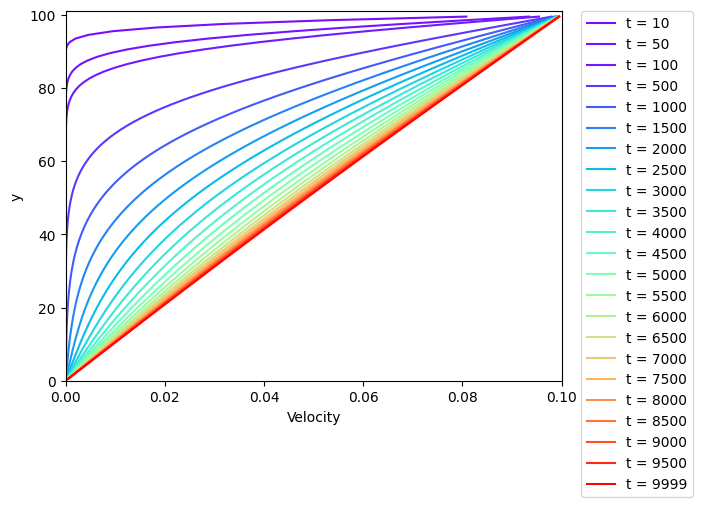
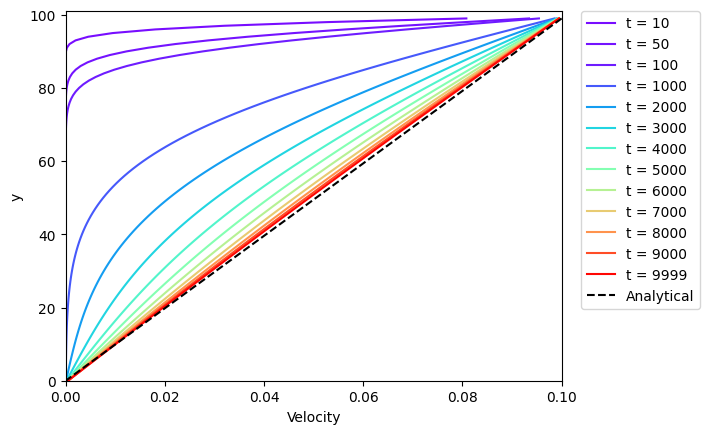
plotting changed and added

diff --git a/Milestone4_CouetteFlow.py b/Milestone4_CouetteFlow.py
@@ -35,7 +35,7 @@ def couette_flow(grid_size_x : int, grid_size_y : int, omega : float, timesteps 
     lbm = LBM(grid_size_x, grid_size_y, omega, inital_velocity_field_Cyx=initial_velocity_field_Cyx, boundary_conditions=boundary_conditions, boundary_velocities=boundary_velocities)
 
     # simulate Couette flow
-    simulated_velocity_field_tCyx = [lbm.get_velocity_field_Cyx()]
+    simulated_velocity_field_tCyx = [lbm.get_velocity_field_Cyx(False)]
     indices = [0]
     print("Simulating Couette flow...")
 
@@ -49,78 +49,110 @@ def couette_flow(grid_size_x : int, grid_size_y : int, omega : float, timesteps 
             print("Timestep " + str(i) + " of " + str(timesteps))
         
             lbm.update_velocity_field()
-            simulated_velocity_field_tCyx.append(lbm.get_velocity_field_Cyx())
+            simulated_velocity_field_tCyx.append(lbm.get_velocity_field_Cyx(False))
             indices.append(i)
 
 
     print("Plotting results...")
-    fig_velocity_over_time = plt.figure()
-    ax1 = fig_velocity_over_time.add_subplot(111)
-    # ax1.set_title("Velocity field over time")
-    ax1.set_xlabel("x")
-    ax1.set_ylabel("y")
-    ax1.set_aspect("equal")
-    ax1.set_xlim(-10, lbm.width+10)
-    ax1.set_ylim(-10, lbm.height+10)
-    x = np.arange(lbm.width)
-    y = np.arange(lbm.height)
+    # fig_velocity_over_time = plt.figure()
+    # ax1 = fig_velocity_over_time.add_subplot(111)
+    # # ax1.set_title("Velocity field over time")
+    # ax1.set_xlabel("x")
+    # ax1.set_ylabel("y")
+    # ax1.set_aspect("equal")
+    # ax1.set_xlim(-10, lbm.width+10)
+    # ax1.set_ylim(-10, lbm.height+10)
+    # x = np.arange(lbm.width)
+    # y = np.arange(lbm.height)
 
-    # max_velocity = np.max(np.array(simulated_velocity_field_tCyx)[:, 0, :, :])
+    # # max_velocity = np.max(np.array(simulated_velocity_field_tCyx)[:, 0, :, :])
 
-    # plot strength of velocity field
-    for i, simulated_velocity_field_Cyx in zip(indices, simulated_velocity_field_tCyx):
+    # # plot strength of velocity field
+    # for i, simulated_velocity_field_Cyx in zip(indices, simulated_velocity_field_tCyx):
         
-        # continue   
-        ax1.set_xlabel("x")
-        ax1.set_ylabel("y")
-        ax1.set_aspect("equal")
-        ax1.set_xlim(-10, lbm.width+10)
-        ax1.set_ylim(-10, lbm.height+10)
+    #     # continue   
+    #     ax1.set_xlabel("x")
+    #     ax1.set_ylabel("y")
+    #     ax1.set_aspect("equal")
+    #     ax1.set_xlim(-10, lbm.width+10)
+    #     ax1.set_ylim(-10, lbm.height+10)
 
-        # draw the boundaries
-        ax1.plot([-0.5, grid_size_x-0.5], [grid_size_y-0.5, grid_size_y-0.5], color="red", label="Moving", linewidth=1)
-        ax1.plot([-0.5, grid_size_x-0.5], [-0.5, -0.5], color="black", label = "Fixed", linewidth=1)
-        # draw vertical boundaries
-        ax1.plot([-0.5, -0.5], [-0.5, grid_size_y-0.5], color="black", linestyle="dashed", label="Periodic", linewidth=1)
-        ax1.plot([grid_size_x-0.5, grid_size_x-0.5], [-0.5, grid_size_y-0.5], color="black", linestyle="dashed", linewidth=1)
-        # ax1.set_title("Velocity field over time, t = " + str(i))
-        velocity_magnitude_field_yx = np.sqrt(simulated_velocity_field_Cyx[0]**2 + simulated_velocity_field_Cyx[1]**2)
-        mappable = ax1.imshow(np.flip(velocity_magnitude_field_yx, axis=0), cmap="plasma", origin="lower")
+    #     # draw the boundaries
+    #     ax1.plot([-0.5, grid_size_x-0.5], [grid_size_y-0.5, grid_size_y-0.5], color="red", label="Moving", linewidth=1)
+    #     ax1.plot([-0.5, grid_size_x-0.5], [-0.5, -0.5], color="black", label = "Fixed", linewidth=1)
+    #     # draw vertical boundaries
+    #     ax1.plot([-0.5, -0.5], [-0.5, grid_size_y-0.5], color="black", linestyle="dashed", label="Periodic", linewidth=1)
+    #     ax1.plot([grid_size_x-0.5, grid_size_x-0.5], [-0.5, grid_size_y-0.5], color="black", linestyle="dashed", linewidth=1)
+    #     # ax1.set_title("Velocity field over time, t = " + str(i))
+    #     velocity_magnitude_field_yx = np.sqrt(simulated_velocity_field_Cyx[0]**2 + simulated_velocity_field_Cyx[1]**2)[1:-1, 1:-1]
+    #     mappable = ax1.imshow(np.flip(velocity_magnitude_field_yx, axis=0), cmap="plasma", origin="lower")
 
-        cbar = fig_velocity_over_time.colorbar(mappable, ax=ax1)
-        cbar.set_ticks([0, top_boundary_velocity])
-        cbar.solids.set_edgecolor("face")
-        cbar.minorticks_on()
-        cbar.set_label("Velocity strength")
+    #     cbar = fig_velocity_over_time.colorbar(mappable, ax=ax1)
+    #     cbar.set_ticks([0, top_boundary_velocity])
+    #     cbar.solids.set_edgecolor("face")
+    #     cbar.minorticks_on()
+    #     cbar.set_label("Velocity strength")
 
-        ax1.legend(bbox_to_anchor=(0, 1.02, 1, 0.2), loc="lower left",
-            mode="expand", borderaxespad=0, ncol=3, labelspacing = 1)
-        plt.tight_layout()
-        if i in safe_timesteps:
-            plt.savefig("CouetteFlowResults/CouetteFlow_VelocityField_t{}_y{}_x{}_omega{}.png".format(i, grid_size_y, grid_size_x, omega), bbox_inches='tight')
-        plt.pause(0.001)
-        cbar.remove()
-        ax1.clear()
+    #     ax1.legend(bbox_to_anchor=(0, 1.02, 1, 0.2), loc="lower left",
+    #         mode="expand", borderaxespad=0, ncol=3, labelspacing = 1)
+    #     plt.tight_layout()
+    #     if i in safe_timesteps:
+    #         plt.savefig("CouetteFlowResults/CouetteFlow_VelocityField_t{}_y{}_x{}_omega{}.png".format(i, grid_size_y, grid_size_x, omega), bbox_inches='tight')
+    #     plt.pause(0.001)
+    #     cbar.remove()
+    #     ax1.clear()
         
             
-    # plot the velocity profile at L_x / 2 over time
-    # expectation is a linear profile for t-->infinitiy
-    lx2 = int(lbm.width/2)
-    fig_velocity_profile_Lx2 = plt.figure()
-    ax_vel_profile_Lx2 = fig_velocity_profile_Lx2.add_subplot(111)
-    ax_vel_profile_Lx2.set_xlabel("Velocity")
-    ax_vel_profile_Lx2.set_ylabel("y")
-    ax_vel_profile_Lx2.set_ylim(0, lbm.height-1)
-    ax_vel_profile_Lx2.set_xlim(0, top_boundary_velocity)
-    # ax_vel_profile_Lx2.set_aspect("equal")
-    y = np.arange(grid_size_y - 1, -1, -1) + 0.5
-    colors = matplotlib.cm.rainbow(np.linspace(0, 1, len(indices) + 1))
-    for step, (i, simulated_velocity_field_Cyx) in enumerate(zip(indices, simulated_velocity_field_tCyx)):
-        if (i % 500 == 0 and i > 0) or i == indices[-1] or i in [10, 50, 100]:
-            ax_vel_profile_Lx2.plot(np.array(simulated_velocity_field_Cyx)[0, :, lx2], y, label="t = " + str(i), color=colors[step])
+    # # plot the velocity profile at L_x / 2 over time
+    # # expectation is a linear profile for t-->infinitiy
+    # lx2 = int(lbm.width/2)
+    # fig_velocity_profile_Lx2 = plt.figure()
+    # ax_vel_profile_Lx2 = fig_velocity_profile_Lx2.add_subplot(111)
+    # ax_vel_profile_Lx2.set_xlabel("Velocity")
+    # ax_vel_profile_Lx2.set_ylabel("y")
+    # ax_vel_profile_Lx2.set_ylim(0, lbm.height-1)
+    # ax_vel_profile_Lx2.set_xlim(0, top_boundary_velocity)
 
-    ax_vel_profile_Lx2.legend(bbox_to_anchor=(1.04, 1), borderaxespad=0)
-    plt.savefig("CouetteFlowResults/CouetteFlow_VelocityProfile_Lx2_over_timesteps_t{}_y{}_x{}_omega{}.png".format(timesteps, grid_size_y, grid_size_x, omega), bbox_inches='tight')
+    # y = np.arange(grid_size_y - 1, -1, -1)
+    # colors = matplotlib.cm.rainbow(np.linspace(0, 1, len(indices) + 1))
+    # for step, (i, simulated_velocity_field_Cyx) in enumerate(zip(indices, simulated_velocity_field_tCyx)):
+    #     if (i % 1000 == 0 and i > 0) or i == indices[-1] or i in [10, 50, 100]:
+    #         ax_vel_profile_Lx2.plot(np.array(simulated_velocity_field_Cyx)[0, 1:-1, lx2], y, label="t = " + str(i), color=colors[step])
+
+    # analytically_expected_velocity_profile = np.arange(grid_size_y - 1, -1, -1) * (top_boundary_velocity / (grid_size_y-1))
+    # ax_vel_profile_Lx2.plot(analytically_expected_velocity_profile, y, label="Analytical", color="black", linestyle="dashed")
+    # ax_vel_profile_Lx2.legend(bbox_to_anchor=(1.04, 1), borderaxespad=0)
+    # plt.savefig("CouetteFlowResults/CouetteFlow_VelocityProfile_Lx2_over_timesteps_t{}_y{}_x{}_omega{}.png".format(timesteps, grid_size_y, grid_size_x, omega), bbox_inches='tight')
+    # plt.tight_layout()
+
+    # plot velocity vectors for steady state velocity field
+    steady_state_velocity_field_Cyx = simulated_velocity_field_tCyx[-1]
+    fig_velocity_vectors = plt.figure()
+    ax_velocity_vectors = fig_velocity_vectors.add_subplot(111)
+    ax_velocity_vectors.set_xlabel("x")
+    ax_velocity_vectors.set_ylabel("y")
+    ax_velocity_vectors.set_aspect("equal")
+    ax_velocity_vectors.set_xlim(-10, lbm.width+10)
+    ax_velocity_vectors.set_ylim(-10, lbm.height+10)
+    ax_velocity_vectors.set_title("Velocity vectors for steady state velocity field")
+
+    steady_state_velocity_field_Cyx = np.flip(steady_state_velocity_field_Cyx, axis=1)
+    u_x = steady_state_velocity_field_Cyx[0][1:-1, 1:-1]
+    u_y = steady_state_velocity_field_Cyx[1][1:-1, 1:-1]
+    ax_velocity_vectors.streamplot(np.arange(1, lbm.width-1), np.arange(1, lbm.height-1), u_x, u_y, color=np.sqrt(u_x**2 + u_y**2), density=1.2, norm=plt.Normalize(0, top_boundary_velocity))
+    ax_velocity_vectors.plot([-0.5, lbm.width - 0.5], [lbm.height-1.5, lbm.height-1.5], color="red", label="Moving wall")
+    ax_velocity_vectors.plot([-0.5, lbm.width - 0.5], [0.5, 0.5], color="black", label = "Fixed wall")
+    # draw vertical boundaries
+    ax_velocity_vectors.plot([-0.5, -0.5], [0.5, lbm.height- 1.5], color="black", label="Periodic", linestyle="dashed")
+    ax_velocity_vectors.plot([lbm.width-0.5, lbm.width-0.5], [0.5, lbm.height - 1.5], color="black", linestyle="dashed")
+    # cbar
+    cbar = fig_velocity_vectors.colorbar(ax=ax_velocity_vectors, mappable=matplotlib.cm.ScalarMappable(norm=plt.Normalize(0, top_boundary_velocity), cmap="viridis"))
+    cbar.set_label("Velocity strength")
+    # ax_velocity_vectors.quiver(np.arange(lbm.width), np.arange(lbm.height), steady_state_velocity_field_Cyx[0], steady_state_velocity_field_Cyx[1])
+    ax_velocity_vectors.legend(bbox_to_anchor=(0.45, 0), loc="lower center",
+                bbox_transform=fig_velocity_vectors.transFigure, ncol=3)
+    
+    plt.savefig("CouetteFlowResults/CouetteFlow_VelocityVectors_t{}_y{}_x{}_omega{}.png".format(timesteps, grid_size_y, grid_size_x, omega), bbox_inches='tight')
     plt.tight_layout()
     plt.show()
 

diff --git a/Milestone3_ShearWaveDecay.py b/Milestone3_ShearWaveDecay.py
@@ -124,7 +124,7 @@ def density_shear_wave_decay(grid_size_x : int, grid_size_y : int, omega : float
         ax1.set_title("Density profile over time")
         ax1.legend()
         fig_density_over_time.tight_layout()
-        fig_density_over_time.savefig("ShearWaveDecayResults/density_over_time_{}_omega_{}.png".format(timesteps, omega))
+        fig_density_over_time.savefig("ShearWaveDecayResults/density_over_time_{}_omega={}.png".format(timesteps, omega))
         # plt.show()
 
     # find maxima of simulated solution over time
@@ -147,7 +147,7 @@ def density_shear_wave_decay(grid_size_x : int, grid_size_y : int, omega : float
         position = int(L/(4*period_multiplier))
         analytical_velocity_t = np.array(analytical_density_field_tx)[:, position] - rho0
         simulated_velocity_t = np.array(simulated_density_field_tyx)[:, 0, position] - rho0
-        plot_decaying_wave(analytical_velocity_t, simulated_velocity_t, "Density", "Density_at_L_x/{}_omega_{}".format(4*period_multiplier, omega))
+        plot_decaying_wave(a0, analytical_velocity_t, simulated_velocity_t, "Density", "Density_at_x={}_omega={}".format(position, omega))
     return analytical_viscositity, simulated_viscosity
 
 def velocity_shear_wave_decay(grid_size_x : int, grid_size_y : int, omega : float, timesteps : int, rho0 : float, a0 : float, period_multiplier : int, plot=False):
@@ -222,7 +222,7 @@ def velocity_shear_wave_decay(grid_size_x : int, grid_size_y : int, omega : floa
         ax1.set_title("Velocity profile over time")
         ax1.legend()
         fig_velocity_over_time.tight_layout()
-        fig_velocity_over_time.savefig("ShearWaveDecayResults/velocity_over_time_{}_omega_{}.png".format(timesteps, omega))
+        fig_velocity_over_time.savefig("ShearWaveDecayResults/velocity_over_time_{}_omega={}.png".format(timesteps, omega))
         # plt.show()
 
     # find maxima of simulated solution over time
@@ -241,7 +241,7 @@ def velocity_shear_wave_decay(grid_size_x : int, grid_size_y : int, omega : floa
         position = int(L/(4*period_multiplier))
         analytical_velocity_t = np.array(analytical_velocity_field_ty)[:, position]
         simulated_velocity_t = np.array(simulated_velocity_field_tyx)[:, position, 0]
-        plot_decaying_wave(analytical_velocity_t, simulated_velocity_t, "Velocity u_x", "Velocity_at_L_y/{}_omega_{}".format(4*period_multiplier, omega))
+        plot_decaying_wave(a0, analytical_velocity_t, simulated_velocity_t, "Velocity u_x", "Velocity_at_y={}_omega={}".format(position, omega))
     return analytical_viscositity, simulated_viscosity
 
 def viscosity_over_omega(grid_size_x, grid_size_y, timesteps, rho0, a0, k, use_density_perturbation=False):
@@ -294,12 +294,14 @@ def viscosity_over_omega(grid_size_x, grid_size_y, timesteps, rho0, a0, k, use_d
     plt.savefig("ShearWaveDecayResults/viscosity_over_omega_{}_{}_{}.png".format("density" if use_density_perturbation else "velocity", grid_size_y, grid_size_x))
     # plt.show()
 
-def plot_decaying_wave(analytical_data_values_t, simulated_data_values_t, value_type, title):
+def plot_decaying_wave(a0, analytical_data_values_t, simulated_data_values_t, value_type, title):
     """
     Plot the analytical and simulated data values over time.
 
     Parameters
     ----------
+    a0 : float
+        The amplitude of the wave.
     analytical_data_values_t : np.ndarray
         The analytical data values over time.
     simulated_data_values_t : np.ndarray
@@ -315,12 +317,12 @@ def plot_decaying_wave(analytical_data_values_t, simulated_data_values_t, value_
     """
     safe_title = title.replace("/", "_")
     # remove everything from omega_ from title
-    plot_title = title.split("omega")[0]
-    plot_title = plot_title.replace("_", " ")
+    # plot_title = title.split("omega")[0]
+    plot_title = title.replace("_", " ")
 
     # find min and max values for the y axis
-    min_value = min(np.amin(analytical_data_values_t), np.amin(simulated_data_values_t))
-    max_value = max(np.amax(analytical_data_values_t), np.amax(simulated_data_values_t))
+    # min_value = min(np.amin(analytical_data_values_t), np.amin(simulated_data_values_t))
+    # max_value = max(np.amax(analytical_data_values_t), np.amax(simulated_data_values_t))
     # plot the data values over time
     fig = plt.figure()
     ax1 = fig.add_subplot(111)
@@ -328,7 +330,7 @@ def plot_decaying_wave(analytical_data_values_t, simulated_data_values_t, value_
     ax1.plot(simulated_data_values_t, label="Simulated")
     ax1.set_xlabel("Timestep")
     ax1.set_ylabel(value_type)
-    ax1.set_ylim([min_value, max_value])
+    ax1.set_ylim([-a0, a0])
     ax1.set_title(plot_title)
     ax1.legend()
     fig.tight_layout()    
@@ -338,10 +340,10 @@ def plot_decaying_wave(analytical_data_values_t, simulated_data_values_t, value_
 
 if __name__ == "__main__":
     # Simulation parameters
-    grid_size_x = 160
-    grid_size_y = 104
+    grid_size_x = 80
+    grid_size_y = 80
     epsilon=0.01
-    timesteps = 1000
+    timesteps = 10000
     rho0 = 1.0
     omega = 0.3
     a0 = epsilon
@@ -350,16 +352,17 @@ if __name__ == "__main__":
     plot_wave = True
 
     omega_values_to_evaluate = [0.3, 0.6, 1.0, 1.8]
+    print("Evaluating for grid size y={}, x={}".format(grid_size_y, grid_size_x))
     for omega in omega_values_to_evaluate:
+        print("Omega: {}".format(omega))
         analytical_viscosity, simulated_viscosity = density_shear_wave_decay(grid_size_x, grid_size_y, omega, timesteps, rho0, a0, k, plot=plot_wave)
         analytical_viscosity, simulated_viscosity =  velocity_shear_wave_decay(grid_size_x, grid_size_y, omega, timesteps, rho0, a0, k, plot=plot_wave)
-        # print("Analytical viscosity: {}".format(analytical_viscosity))
-        # print("Simulated viscosity: {}".format(simulated_viscosity))
 
-    viscosity_over_omega(grid_size_x, grid_size_y, timesteps, rho0, a0, k, use_density_perturbation=use_density_perturbation)
-    viscosity_over_omega(grid_size_x, grid_size_y, timesteps, rho0, a0, k, use_density_perturbation=not use_density_perturbation)
+    # viscosity_over_omega(grid_size_x, grid_size_y, timesteps, rho0, a0, k, use_density_perturbation=use_density_perturbation)
+    # viscosity_over_omega(grid_size_x, grid_size_y, timesteps, rho0, a0, k, use_density_perturbation=not use_density_perturbation)
 
-    grid_size_x = 32
-    grid_size_y = 16
-    viscosity_over_omega(grid_size_x, grid_size_y, timesteps, rho0, a0, k, use_density_perturbation=use_density_perturbation)
-    viscosity_over_omega(grid_size_x, grid_size_y, timesteps, rho0, a0, k, use_density_perturbation=not use_density_perturbation)
+    # grid_size_x = 20
+    # grid_size_y = 10
+    # print("Evaluating for grid size y={}, x={}".format(grid_size_y, grid_size_x))
+    # viscosity_over_omega(grid_size_x, grid_size_y, timesteps, rho0, a0, k, use_density_perturbation=use_density_perturbation)
+    # viscosity_over_omega(grid_size_x, grid_size_y, timesteps, rho0, a0, k, use_density_perturbation=not use_density_perturbation)
